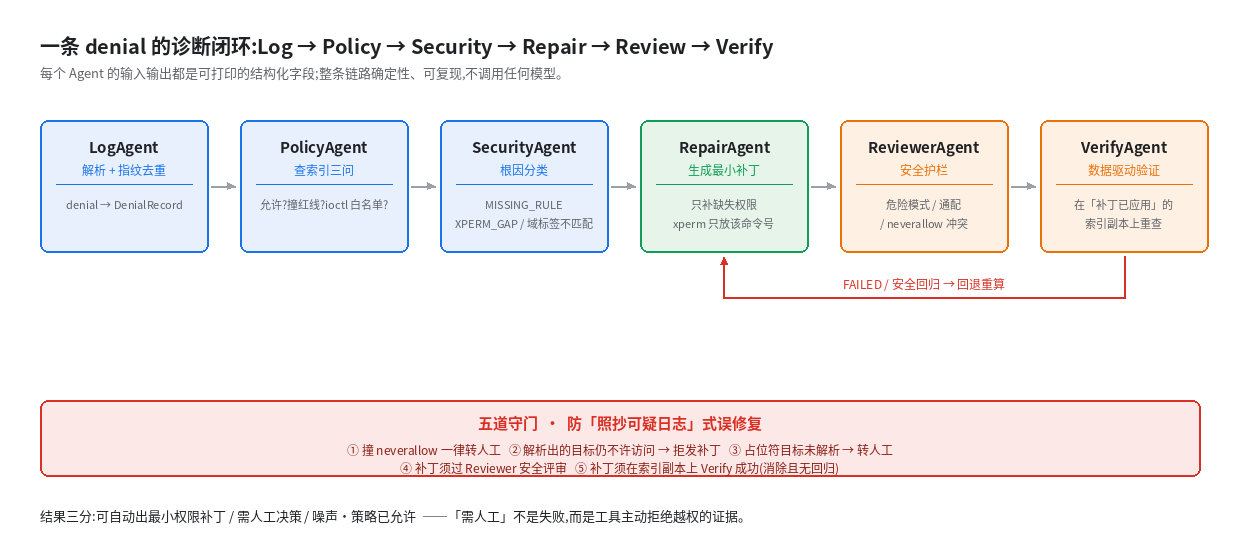
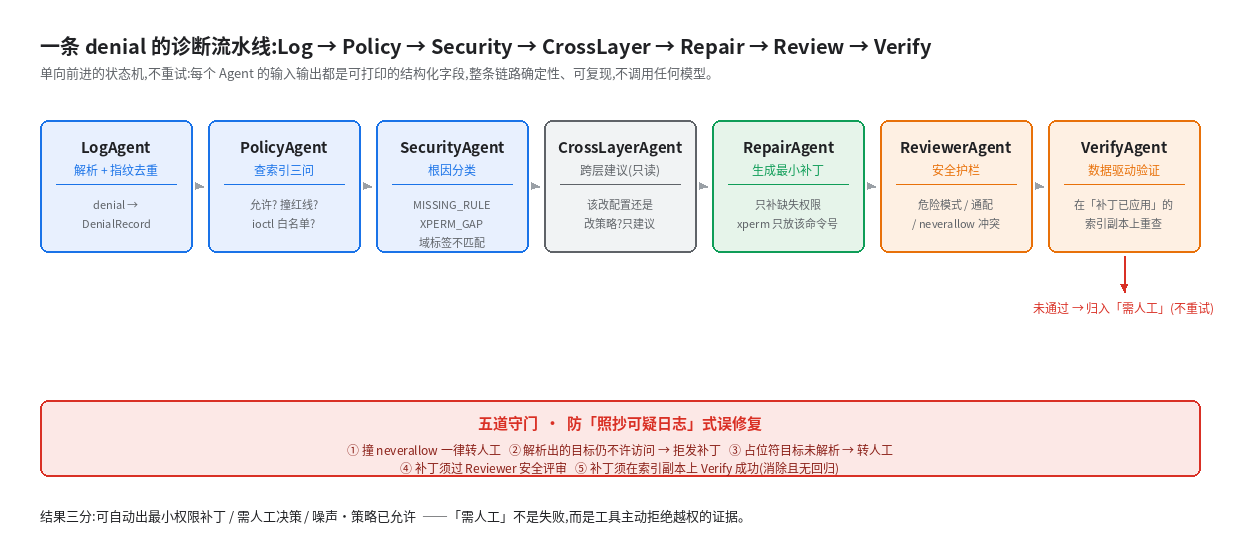
docs(figs): 配图与代码对齐 —— 补回 CrossLayer、删掉并不存在的 Verify→Repair 回路
- 图1/图3：盒子标题「六 Agent 闭环」→「七 Agent 流水线」（_PIPELINE 实有 7 个）
- 图2：标题补上 CrossLayer，画成 7 个盒子；CrossLayerAgent 灰底标「只读」
- 图2：**删掉 Verify → Repair 的红色回退回路** —— orchestrator.analyze() 是单向前进的状态机，
  唯一提前退出是 log 解析失败；Review/Verify 未通过只会让 _categorize 把该案归入
  「需人工」，从不重试。原图那条边是画出来的、代码里没有的行为。
- 图3：「+ 五道守门」→「+ 六道守门」，与 report §2.5 / README 口径一致
  （图2 的「五道守门」保留：它对应 report §2.4.4 那张 5 行「流水线拒绝点」表，是另一套分法）
- 图4 未动（板端实时闭环是真回路）。重生成后 fig4 md5 逐字节不变，
  证明本次确实只动了该动的地方。

diff --git a/docs/figs/make_figs.py b/docs/figs/make_figs.py
@@ -116,7 +116,7 @@ def fig_architecture():
     labels = [
         ("denial 解析器", "denial/parser.py", BLUE_BG, BLUE),
         ("策略索引", "policy/index.py", BLUE_BG, BLUE),
-        ("六 Agent 闭环", "agents/", BLUE_BG, BLUE),
+        ("七 Agent 流水线", "agents/", BLUE_BG, BLUE),
         ("批量收敛", "converge.py", BLUE_BG, BLUE),
         ("评测体系", "eval/", GREY_BG, MUTED),
     ]
@@ -172,21 +172,23 @@ def fig_architecture():
     im.save(f"{OUT}/fig1-architecture.png")
 
 
-# ------------------------------------------------------------ 图 2 六 Agent 闭环
+# ------------------------------------------------------------ 图 2 七 Agent 流水线
 def fig_agent_pipeline():
     W, H = 1240, 560
     im, d = canvas(W, H)
-    d.text((40, 30), "一条 denial 的诊断闭环:Log → Policy → Security → Repair → Review → Verify",
+    d.text((40, 30), "一条 denial 的诊断流水线:Log → Policy → Security → CrossLayer → Repair → Review → Verify",
            font=FB(20), fill=INK)
-    d.text((40, 62), "每个 Agent 的输入输出都是可打印的结构化字段;整条链路确定性、可复现,不调用任何模型。",
+    d.text((40, 62), "单向前进的状态机,不重试:每个 Agent 的输入输出都是可打印的结构化字段,"
+                     "整条链路确定性、可复现,不调用任何模型。",
            font=F(13), fill=MUTED)
 
     y = 120
-    bw, bh, gap = 168, 132, 32
+    bw, bh, gap = 152, 132, 16
     agents = [
-        ("LogAgent", "解析 + 指纹去重", "denial → DenialRecord", "#E8F0FE", BLUE),
-        ("PolicyAgent", "查索引三问", "允许?撞红线?ioctl 白名单?", "#E8F0FE", BLUE),
-        ("SecurityAgent", "根因分类", "MISSING_RULE\nXPERM_GAP / 域标签不匹配", "#E8F0FE", BLUE),
+        ("LogAgent", "解析 + 指纹去重", "denial →\nDenialRecord", "#E8F0FE", BLUE),
+        ("PolicyAgent", "查索引三问", "允许? 撞红线?\nioctl 白名单?", "#E8F0FE", BLUE),
+        ("SecurityAgent", "根因分类", "MISSING_RULE\nXPERM_GAP\n域标签不匹配", "#E8F0FE", BLUE),
+        ("CrossLayerAgent", "跨层建议(只读)", "该改配置还是\n改策略?只建议", "#F1F3F4", MUTED),
         ("RepairAgent", "生成最小补丁", "只补缺失权限\nxperm 只放该命令号", "#E6F4EA", GREEN),
         ("ReviewerAgent", "安全护栏", "危险模式 / 通配\n/ neverallow 冲突", "#FEF0E3", ORANGE),
         ("VerifyAgent", "数据驱动验证", "在「补丁已应用」的\n索引副本上重查", "#FEF0E3", ORANGE),
@@ -203,16 +205,12 @@ def fig_agent_pipeline():
             arrow(d, x + bw + 3, y + bh / 2, x + bw + gap - 5, y + bh / 2,
                   color="#9AA0A6", width=2, head=8)
 
-    # 回退回路 Verify -> Repair
-    y2 = y + bh + 46
-    d.line([40 + 5 * (bw + gap) + bw / 2, y + bh + 4,
-            40 + 5 * (bw + gap) + bw / 2, y2], fill=RED, width=2)
-    d.line([40 + 5 * (bw + gap) + bw / 2, y2, 40 + 3 * (bw + gap) + bw / 2, y2],
-           fill=RED, width=2)
-    arrow(d, 40 + 3 * (bw + gap) + bw / 2, y2, 40 + 3 * (bw + gap) + bw / 2,
-          y + bh + 5, color=RED, width=2, head=8)
-    ctext(d, 40 + 4 * (bw + gap) + bw / 2, y2 - 14,
-          "FAILED / 安全回归 → 回退重算", F(12), RED)
+    # Verify/Review 未通过不是回路:该案直接归入「需人工」,流水线不重试
+    # (orchestrator.analyze 是单向前进;唯一提前退出是 log 解析失败)
+    y2 = y + bh + 40
+    vx = 40 + 6 * (bw + gap) + bw / 2
+    arrow(d, vx, y + bh + 4, vx, y2, color=RED, width=2, head=8)
+    ctext(d, vx, y2 + 16, "未通过 → 归入「需人工」(不重试)", F(12), RED)
 
     # 守门带
     gy = 400
@@ -264,9 +262,9 @@ def fig_converge():
     arrow(d, 805, 175, 865, 175, color="#9AA0A6", width=3, head=9)
 
     box(d, 870, 120, 230, 110, fill=BLUE_BG, outline=BLUE)
-    ctext(d, 985, 152, "六 Agent 闭环", FB(15), INK)
+    ctext(d, 985, 152, "七 Agent 流水线", FB(15), INK)
     ctext(d, 985, 178, "逐案分类 + 最小补丁", F(13), MUTED)
-    ctext(d, 985, 200, "+ 五道守门", F(13), RED)
+    ctext(d, 985, 200, "+ 六道守门", F(13), RED)
 
     # 三路输出
     outs = [
